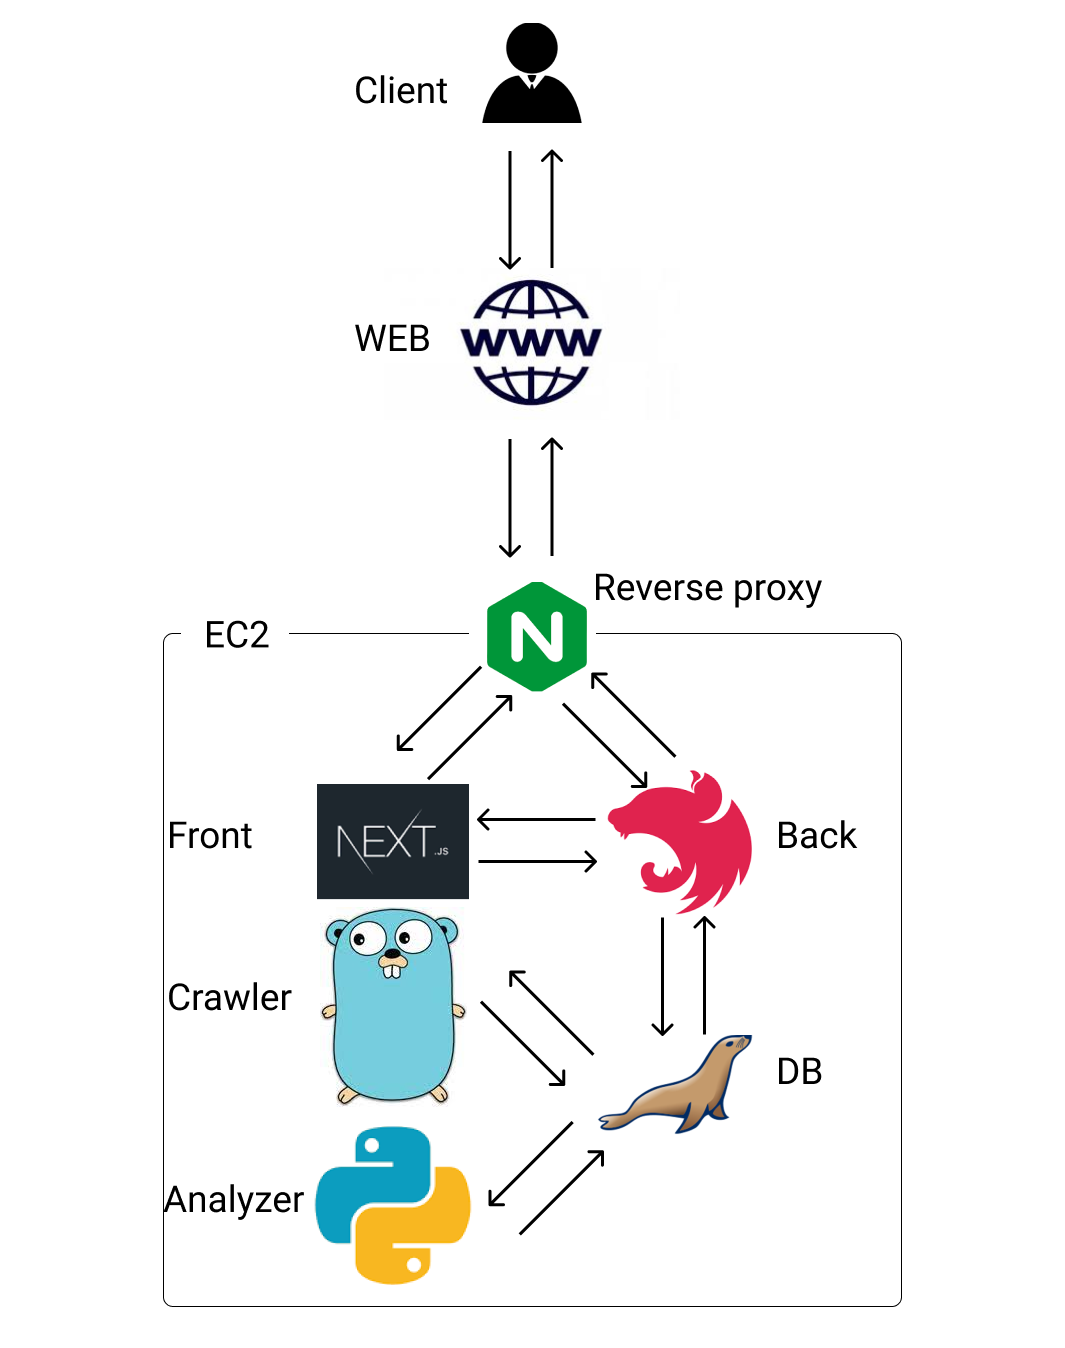
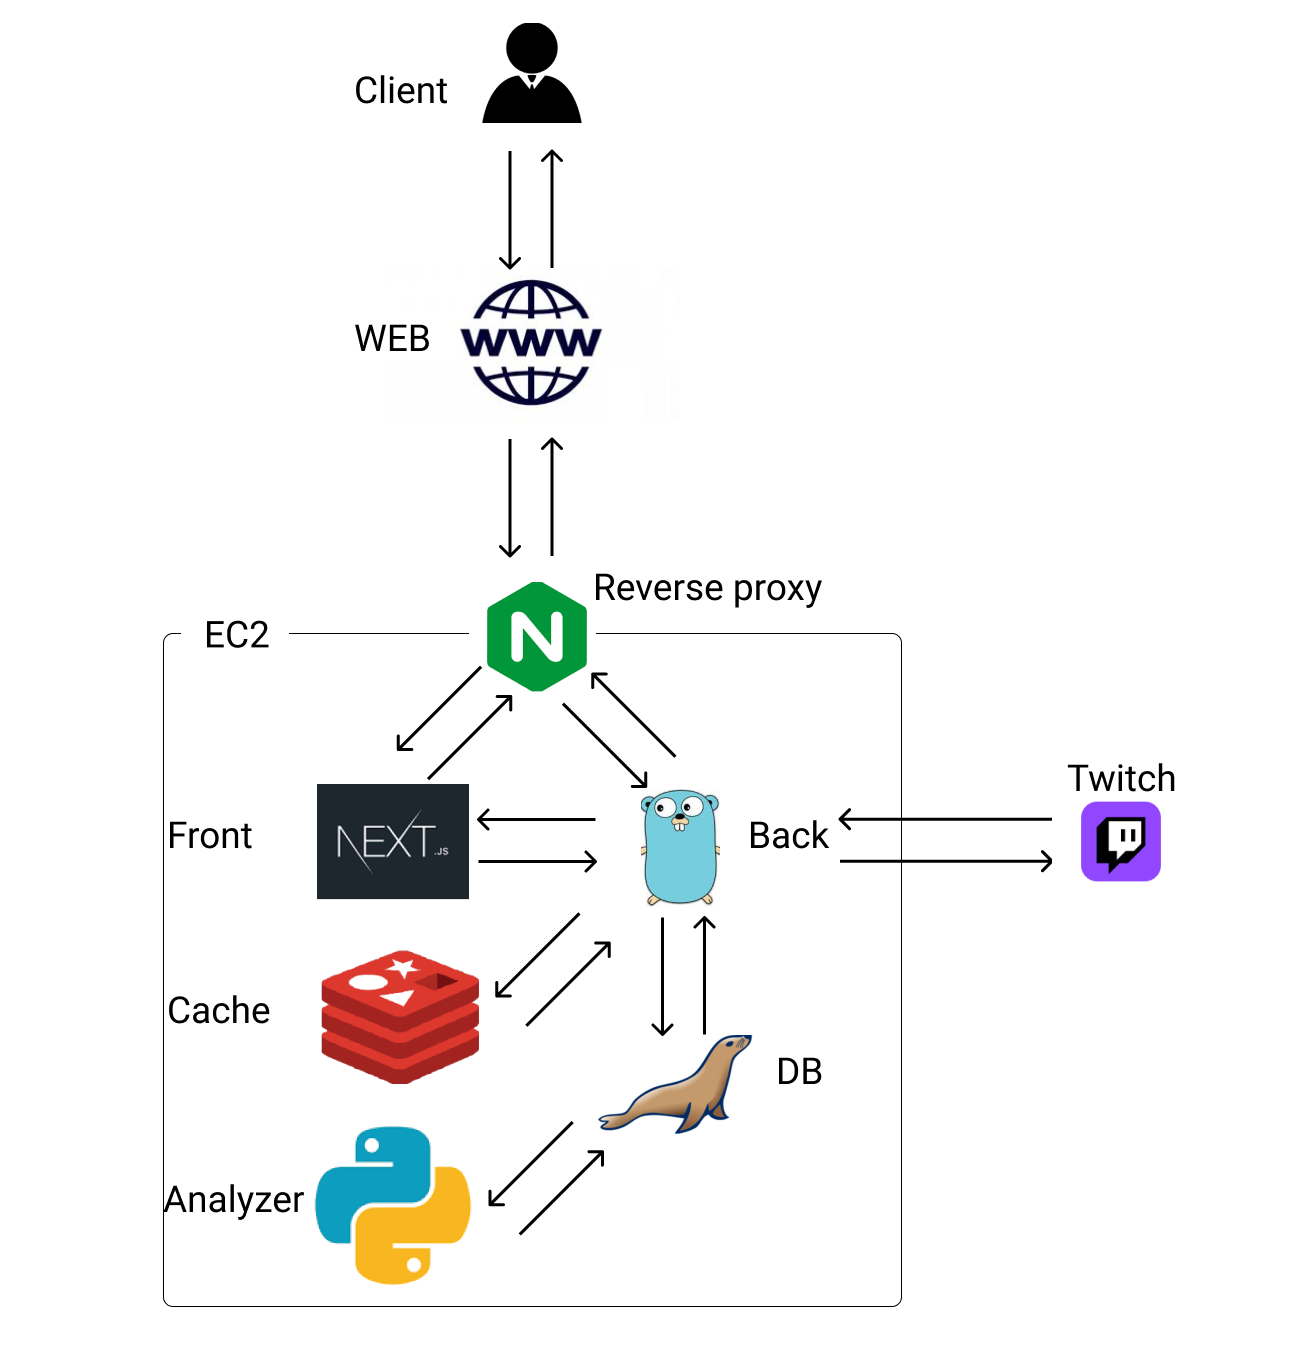
docs: update README.md

Changed region(s): [[0.1239, 0.0, 0.8986, 0.9659], [0.1549, 0.4362, 0.2479, 0.4985]]

diff --git a/README.md b/README.md
@@ -78,10 +78,10 @@
 
 ![AWS](https://img.shields.io/badge/AWS-%23FF9900.svg?style=for-the-badge&logo=amazon-aws&logoColor=white)
 ![MariaDB](https://img.shields.io/badge/MariaDB-003545?style=for-the-badge&logo=mariadb&logoColor=white)
+![Redis](https://img.shields.io/badge/redis-%23DD0031.svg?style=for-the-badge&logo=redis&logoColor=white)
 ![Next JS](https://img.shields.io/badge/Next-black?style=for-the-badge&logo=next.js&logoColor=white)
 ![Go](https://img.shields.io/badge/go-%2300ADD8.svg?style=for-the-badge&logo=go&logoColor=white)
 ![Python](https://img.shields.io/badge/python-3670A0?style=for-the-badge&logo=python&logoColor=ffdd54)
-![NestJS](https://img.shields.io/badge/nestjs-%23E0234E.svg?style=for-the-badge&logo=nestjs&logoColor=white)
 ![Nginx](https://img.shields.io/badge/nginx-%23009639.svg?style=for-the-badge&logo=nginx&logoColor=white)
 ![Docker](https://img.shields.io/badge/docker-%230db7ed.svg?style=for-the-badge&logo=docker&logoColor=white)
 ![Grafana](https://img.shields.io/badge/grafana-%23E34F26.svg?style=for-the-badge&logo=grafana&logoColor=white)
@@ -112,8 +112,9 @@
    ```
 2. 프로젝트의 루트에 `docker.env`라는 파일을 만들고 아래의 내용을 채웁니다.
    ```dotenv
-    # github api
-    OCTOKIT_AUTH=YOUR_OCTOKIT_AUTH
+    # redis
+    REDIS_HOST=YOUR_REDIS_HOST
+    REDIS_PORT=YOUR_REDIS_PORT
     
     # mariaDB
     DB_HOST=YOUR_DB_HOST
